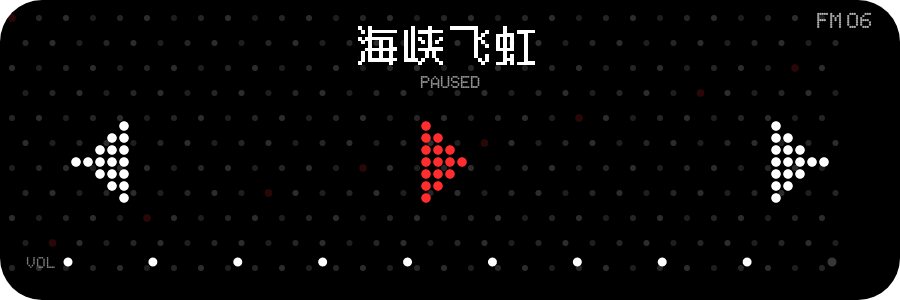
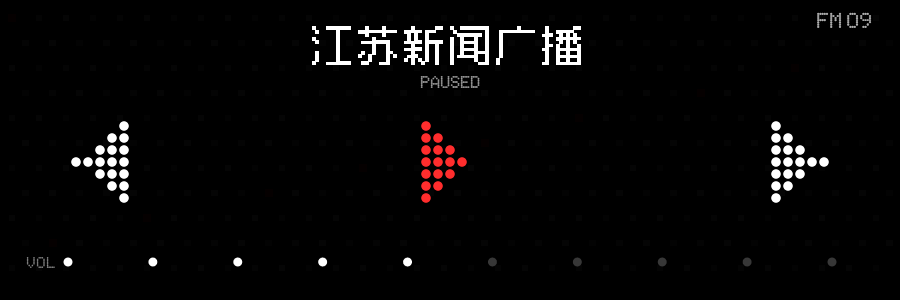
fix: preserve widget proportions across launcher grids

diff --git a/src/com/example/radiowidget/WidgetRenderer.java b/src/com/example/radiowidget/WidgetRenderer.java
@@ -5,24 +5,18 @@ import android.appwidget.AppWidgetManager;
 import android.content.ComponentName;
 import android.content.Context;
 import android.content.Intent;
-import android.content.res.Configuration;
 import android.graphics.Bitmap;
 import android.graphics.Canvas;
 import android.graphics.Color;
 import android.graphics.Paint;
 import android.graphics.Typeface;
 import android.net.Uri;
-import android.os.Bundle;
-import android.util.Log;
 import android.widget.RemoteViews;
 
 /** Draws the Nothing-style bitmap and wires all widget hit targets. */
 public final class WidgetRenderer {
-    private static final String TAG = "NothingRadioRender";
     public static final int WIDTH = 900;
     public static final int HEIGHT = 300;
-    private static final int MIN_BITMAP_HEIGHT = 180;
-    private static final int MAX_BITMAP_HEIGHT = 540;
 
     private static final int[] VOLUME_IDS = new int[]{
             R.id.vol_0, R.id.vol_1, R.id.vol_2, R.id.vol_3, R.id.vol_4,
@@ -46,11 +40,12 @@ public final class WidgetRenderer {
                 new ComponentName(context, RadioWidgetProvider.class));
         if (ids.length == 0) return;
 
+        Bitmap matrix = drawMatrix(state, animationFrame);
+        Bitmap content = drawContent(state, animationFrame, pressedAction);
         for (int id : ids) {
-            int[] size = bitmapSizeForWidget(manager, id);
-            Bitmap bitmap = draw(state, animationFrame, pressedAction, size[0], size[1]);
             RemoteViews views = new RemoteViews(context.getPackageName(), R.layout.widget_layout);
-            views.setImageViewBitmap(R.id.display, bitmap);
+            views.setImageViewBitmap(R.id.background_matrix, matrix);
+            views.setImageViewBitmap(R.id.display, content);
             views.setOnClickPendingIntent(R.id.btn_prev,
                     serviceIntent(RadioService.ACTION_PREV, id, 1, null));
             views.setOnClickPendingIntent(R.id.btn_toggle,
@@ -67,89 +62,54 @@ public final class WidgetRenderer {
     }
 
     public Bitmap draw(WidgetStateStore.Snapshot state, int frame, String pressedAction) {
-        return draw(state, frame, pressedAction, WIDTH, HEIGHT);
+        Bitmap bitmap = Bitmap.createBitmap(WIDTH, HEIGHT, Bitmap.Config.ARGB_8888);
+        Canvas canvas = new Canvas(bitmap);
+        canvas.drawColor(Color.BLACK);
+        canvas.drawBitmap(drawMatrix(state, frame), 0, 0, paint);
+        canvas.drawBitmap(drawContent(state, frame, pressedAction), 0, 0, paint);
+        return bitmap;
     }
 
-    private Bitmap draw(WidgetStateStore.Snapshot state, int frame, String pressedAction,
-                        int bitmapWidth, int bitmapHeight) {
-        Bitmap bitmap = Bitmap.createBitmap(bitmapWidth, bitmapHeight, Bitmap.Config.ARGB_8888);
+    private Bitmap drawContent(WidgetStateStore.Snapshot state, int frame,
+                               String pressedAction) {
+        Bitmap bitmap = Bitmap.createBitmap(WIDTH, HEIGHT, Bitmap.Config.ARGB_8888);
         Canvas canvas = new Canvas(bitmap);
-        drawBackground(canvas, state, frame, bitmapWidth, bitmapHeight);
-
-        // Keep type, dots and icons geometrically correct at every launcher aspect ratio.
-        // Any extra space belongs to the background instead of stretching the content.
-        float scale = Math.min(bitmapWidth / (float) WIDTH, bitmapHeight / (float) HEIGHT);
-        float offsetX = (bitmapWidth - WIDTH * scale) / 2f;
-        float offsetY = (bitmapHeight - HEIGHT * scale) / 2f;
-        int checkpoint = canvas.save();
-        canvas.translate(offsetX, offsetY);
-        canvas.scale(scale, scale);
-
         Station station = Station.LIST[state.stationIndex];
         drawStation(canvas, station, state);
         drawControls(canvas, state, frame, pressedAction);
         drawVolume(canvas, state.volume, frame,
                 RadioService.ACTION_VOLUME.equals(pressedAction));
-        canvas.restoreToCount(checkpoint);
         return bitmap;
     }
 
-    private int[] bitmapSizeForWidget(AppWidgetManager manager, int widgetId) {
-        Bundle options = manager.getAppWidgetOptions(widgetId);
-        int minWidthDp = options.getInt(AppWidgetManager.OPTION_APPWIDGET_MIN_WIDTH, 200);
-        int maxWidthDp = options.getInt(AppWidgetManager.OPTION_APPWIDGET_MAX_WIDTH, minWidthDp);
-        int minHeightDp = options.getInt(AppWidgetManager.OPTION_APPWIDGET_MIN_HEIGHT, 65);
-        int maxHeightDp = options.getInt(AppWidgetManager.OPTION_APPWIDGET_MAX_HEIGHT, minHeightDp);
-
-        // AppWidget options contain portrait and landscape bounds. Select the active orientation;
-        // fixed-size launchers generally report identical values, so this also covers those.
-        boolean landscape = context.getResources().getConfiguration().orientation
-                == Configuration.ORIENTATION_LANDSCAPE;
-        int widthDp = Math.max(1, landscape
-                ? Math.max(minWidthDp, maxWidthDp) : Math.min(minWidthDp, maxWidthDp));
-        int heightDp = Math.max(1, landscape
-                ? Math.min(minHeightDp, maxHeightDp) : Math.max(minHeightDp, maxHeightDp));
-        int bitmapHeight = Math.round(WIDTH * (heightDp / (float) widthDp));
-        bitmapHeight = Math.max(MIN_BITMAP_HEIGHT, Math.min(MAX_BITMAP_HEIGHT, bitmapHeight));
-        Log.i(TAG, "widget=" + widgetId + " options=" + minWidthDp + "x" + minHeightDp
-                + ".." + maxWidthDp + "x" + maxHeightDp + " bitmap=" + WIDTH + "x"
-                + bitmapHeight);
-        return new int[]{WIDTH, bitmapHeight};
-    }
-
-    private void drawBackground(Canvas canvas, WidgetStateStore.Snapshot state, int frame,
-                                int width, int height) {
-        resetPaint();
-        paint.setColor(Color.BLACK);
-        paint.setAntiAlias(true);
-        float corner = Math.min(42f, Math.min(width, height) * 0.14f);
-        canvas.drawRoundRect(0, 0, width, height, corner, corner, paint);
-
-        // Low-contrast staggered dot matrix. It remains almost invisible at rest,
-        // while short interaction animations shift its phase by a few pixels.
+    private Bitmap drawMatrix(WidgetStateStore.Snapshot state, int frame) {
+        Bitmap bitmap = Bitmap.createBitmap(WIDTH, HEIGHT, Bitmap.Config.ARGB_8888);
+        Canvas canvas = new Canvas(bitmap);
         int phase = (state.playbackState == WidgetStateStore.PlaybackState.TUNING
                 || state.playbackState == WidgetStateStore.PlaybackState.PLAYING)
                 ? frame % 3 : 0;
         final float stepX = 27f;
         final float stepY = 25f;
-        int rowCount = (int) Math.ceil(height / stepY) + 1;
-        int columnCount = (int) Math.ceil(width / stepX) + 1;
+        int rowCount = (int) Math.ceil(HEIGHT / stepY) + 1;
+        int columnCount = (int) Math.ceil(WIDTH / stepX) + 1;
         for (int row = 0; row < rowCount; row++) {
             float y = 18f + row * stepY;
             float rowOffset = (row % 2) * (stepX / 2f) + phase * 2f;
             for (int column = 0; column < columnCount; column++) {
                 float x = 12f + column * stepX + rowOffset;
-                if (x > width - 10f || y > height - 10f) continue;
+                if (x > WIDTH - 10f || y > HEIGHT - 10f) continue;
                 resetPaint();
                 boolean accent = ((row * 7 + column * 11) % 37) == 0;
                 int alpha = 30 + ((row + column + phase) % 3) * 7;
                 paint.setColor(accent
                         ? Color.argb(42, 255, 45, 45)
                         : Color.argb(alpha, 255, 255, 255));
-                paint.setAntiAlias(true);
-                canvas.drawCircle(x, y, accent ? 3.8f : 3.0f, paint);
+                paint.setAntiAlias(false);
+                float half = accent ? 4.0f : 3.2f;
+                canvas.drawRect(x - half, y - half, x + half, y + half, paint);
             }
         }
+        return bitmap;
     }
 
     private void drawStation(Canvas canvas, Station station, WidgetStateStore.Snapshot state) {

diff --git a/README.md b/README.md
@@ -26,13 +26,13 @@
 
 ## 📦 直接安装
 
-仓库根目录的 `radiowidget.apk` 是当前稳定版（v2.1.2），可以直接下载安装；也可以从源码构建，产物位于 `build/radiowidget.apk`：
+仓库根目录的 `radiowidget.apk` 是当前稳定版（v2.2.0），可以直接下载安装；也可以从源码构建，产物位于 `build/radiowidget.apk`：
 
 ```bash
 adb install -r radiowidget.apk
 ```
 
-安装后：长按桌面空白 → 小组件 → 找到 **「点阵电台」** → 拖到桌面。组件固定为 3×1。v2 包名为 `com.unimend.nothingradio`，可与历史 v1 并存，便于对比后再清理旧版。v2.1.2 会根据 Launcher 实际分配的宽高动态渲染，在不同桌面网格与横竖屏下保持文字、圆点和图标比例不变。
+安装后：长按桌面空白 → 小组件 → 找到 **「点阵电台」** → 拖到桌面。组件固定为 3×1。v2 包名为 `com.unimend.nothingradio`，可与历史 v1 并存，便于对比后再清理旧版。v2.2.0 使用独立的圆角底板、等比方块矩阵和等比内容三层结构，不依赖 Launcher 上报的尺寸比例，可适应不同桌面网格与横竖屏。
 
 ## 🔨 从源码构建
 
@@ -100,4 +100,4 @@ MIT License，详见 [LICENSE](./LICENSE)。
 
 ---
 
-*一个在 OnePlus 7T Pro（Android 12，Magisk root）上从零定制、手写编译的 Nothing 风格电台组件。v2.1.2 已完成构建、安装、桌面交互、联网播放、HTTPS 电台源、状态持久化、点阵背景及 3×5 桌面网格适配验证。*
+*一个在 OnePlus 7T Pro（Android 12，Magisk root）上从零定制、手写编译的 Nothing 风格电台组件。v2.2.0 已完成构建、安装、桌面交互、联网播放、HTTPS 电台源、状态持久化、方块矩阵及 3×5/5×6 桌面网格适配验证。*

diff --git a/PROJECT_NOTES.md b/PROJECT_NOTES.md
@@ -6,6 +6,16 @@
 
 ## 2026-10-10 - v2.1 HTTPS 流修复与半透明点阵背景
 
+### v2.2.0 与 Launcher 尺寸上报解耦
+
+- 5×6 网格中，ColorOS Launcher 上报 `320×77 dp`（4.16:1），最终可见区域却约为 3.3:1；按上报尺寸生成位图仍会被二次拉伸。
+- 改成三层渲染：XML 圆角黑底填满宿主；半透明方块矩阵以 `centerCrop` 等比铺设；900×300 内容以 `fitCenter` 等比居中。
+- 所有层都不再使用 `fitXY`，因此即使 Launcher 上报错误或改变最终区域，文字、图标和矩阵元素也不会非等比变形。
+- 背景圆点改为硬边半透明小方块，保留稀疏红色强调和播放/调频时的轻微相位动画。
+- 音量点击区由底部 1/5 扩大为底部 1/3，兼容等比内容产生的上下留白。
+- 已在一加 7T Pro 的 5×6 桌面实机截图验证，并验证音量动作、Provider 刷新与预览导出。
+- 版本升级为 `2.2.0`、`versionCode=6`。
+
 ### v2.1.2 不同桌面网格自适应
 
 - 根因：渲染器固定输出 `900×300`，布局中的 `ImageView` 又使用 `fitXY`；当 3×5 桌面为 3×1 组件分配约 `152×77 dp` 时，整张位图会从 3:1 拉伸到约 1.97:1。
